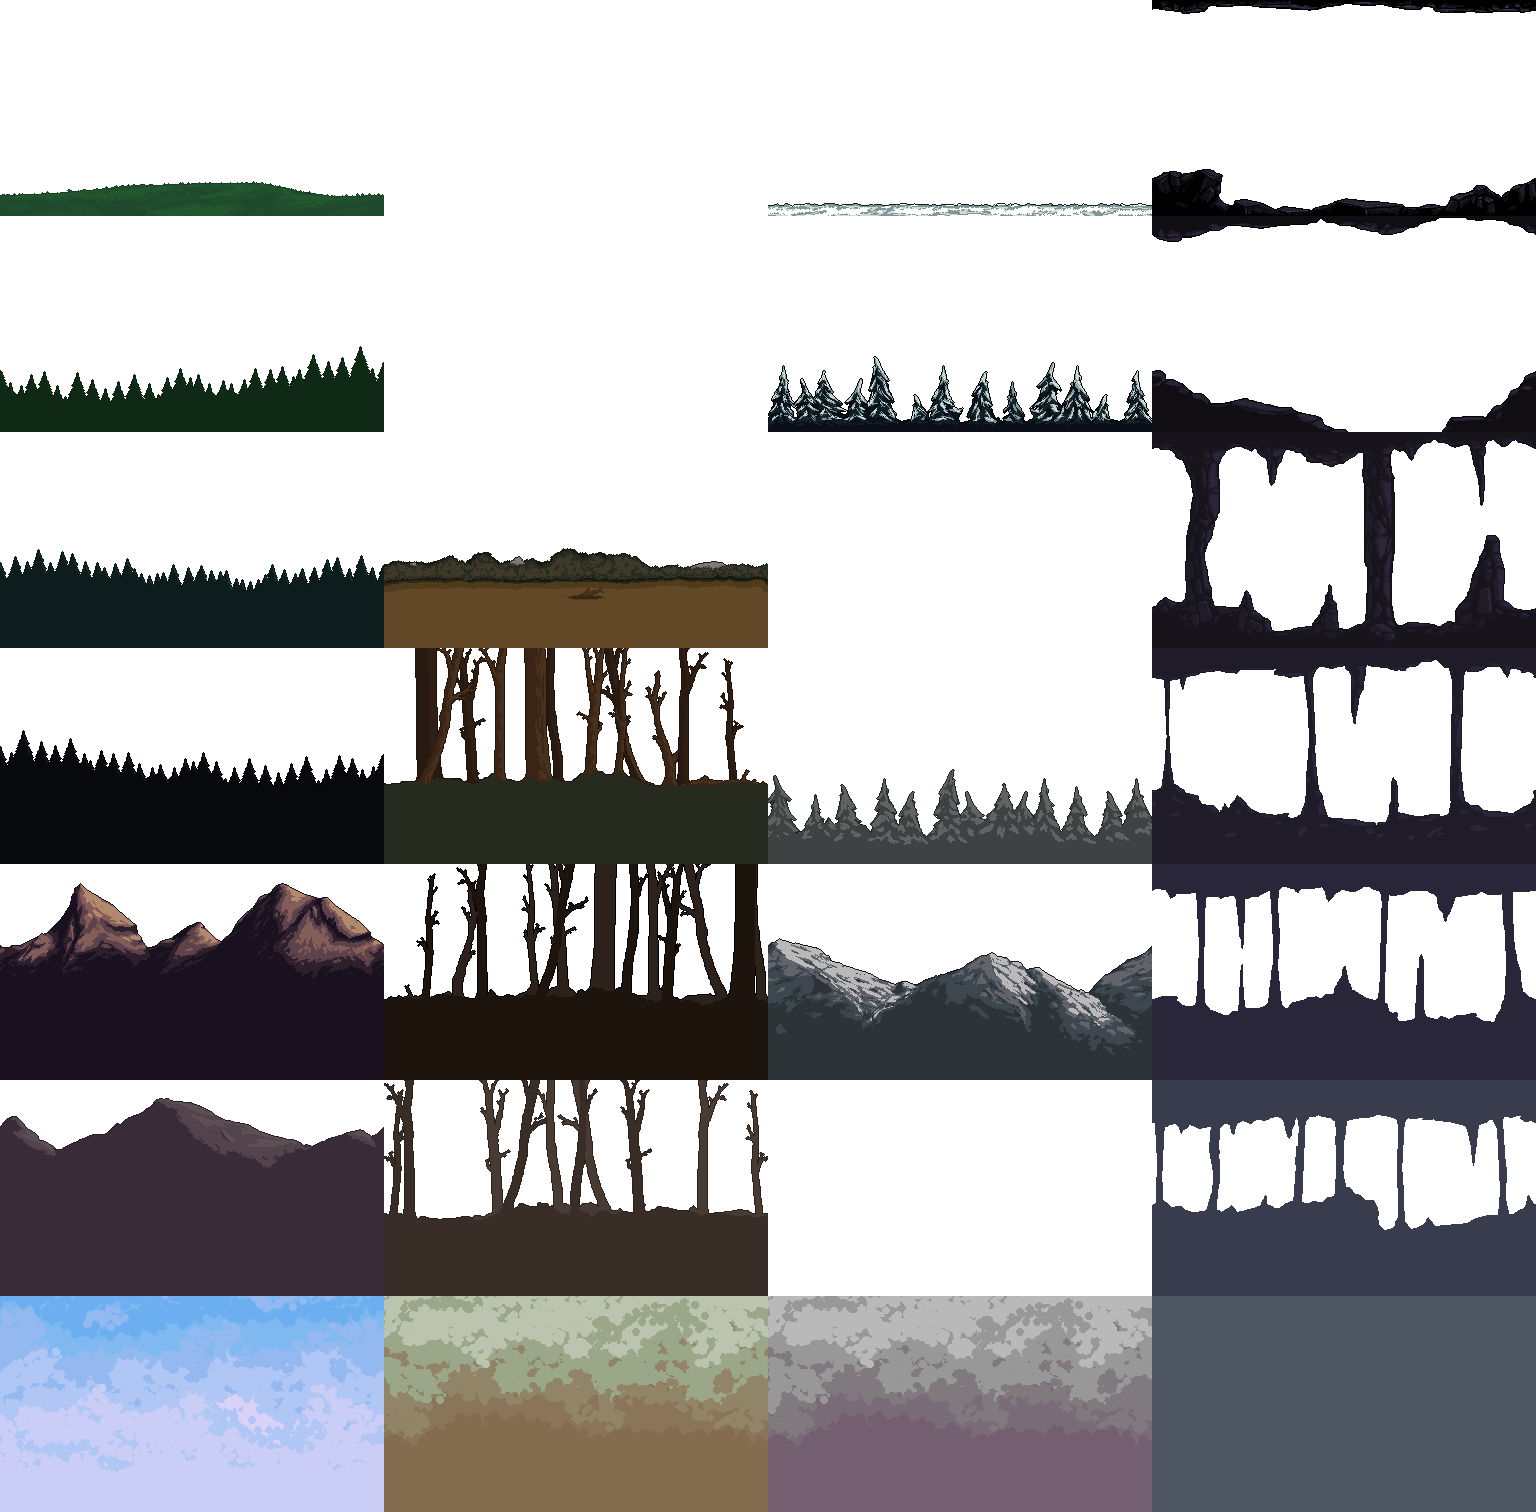
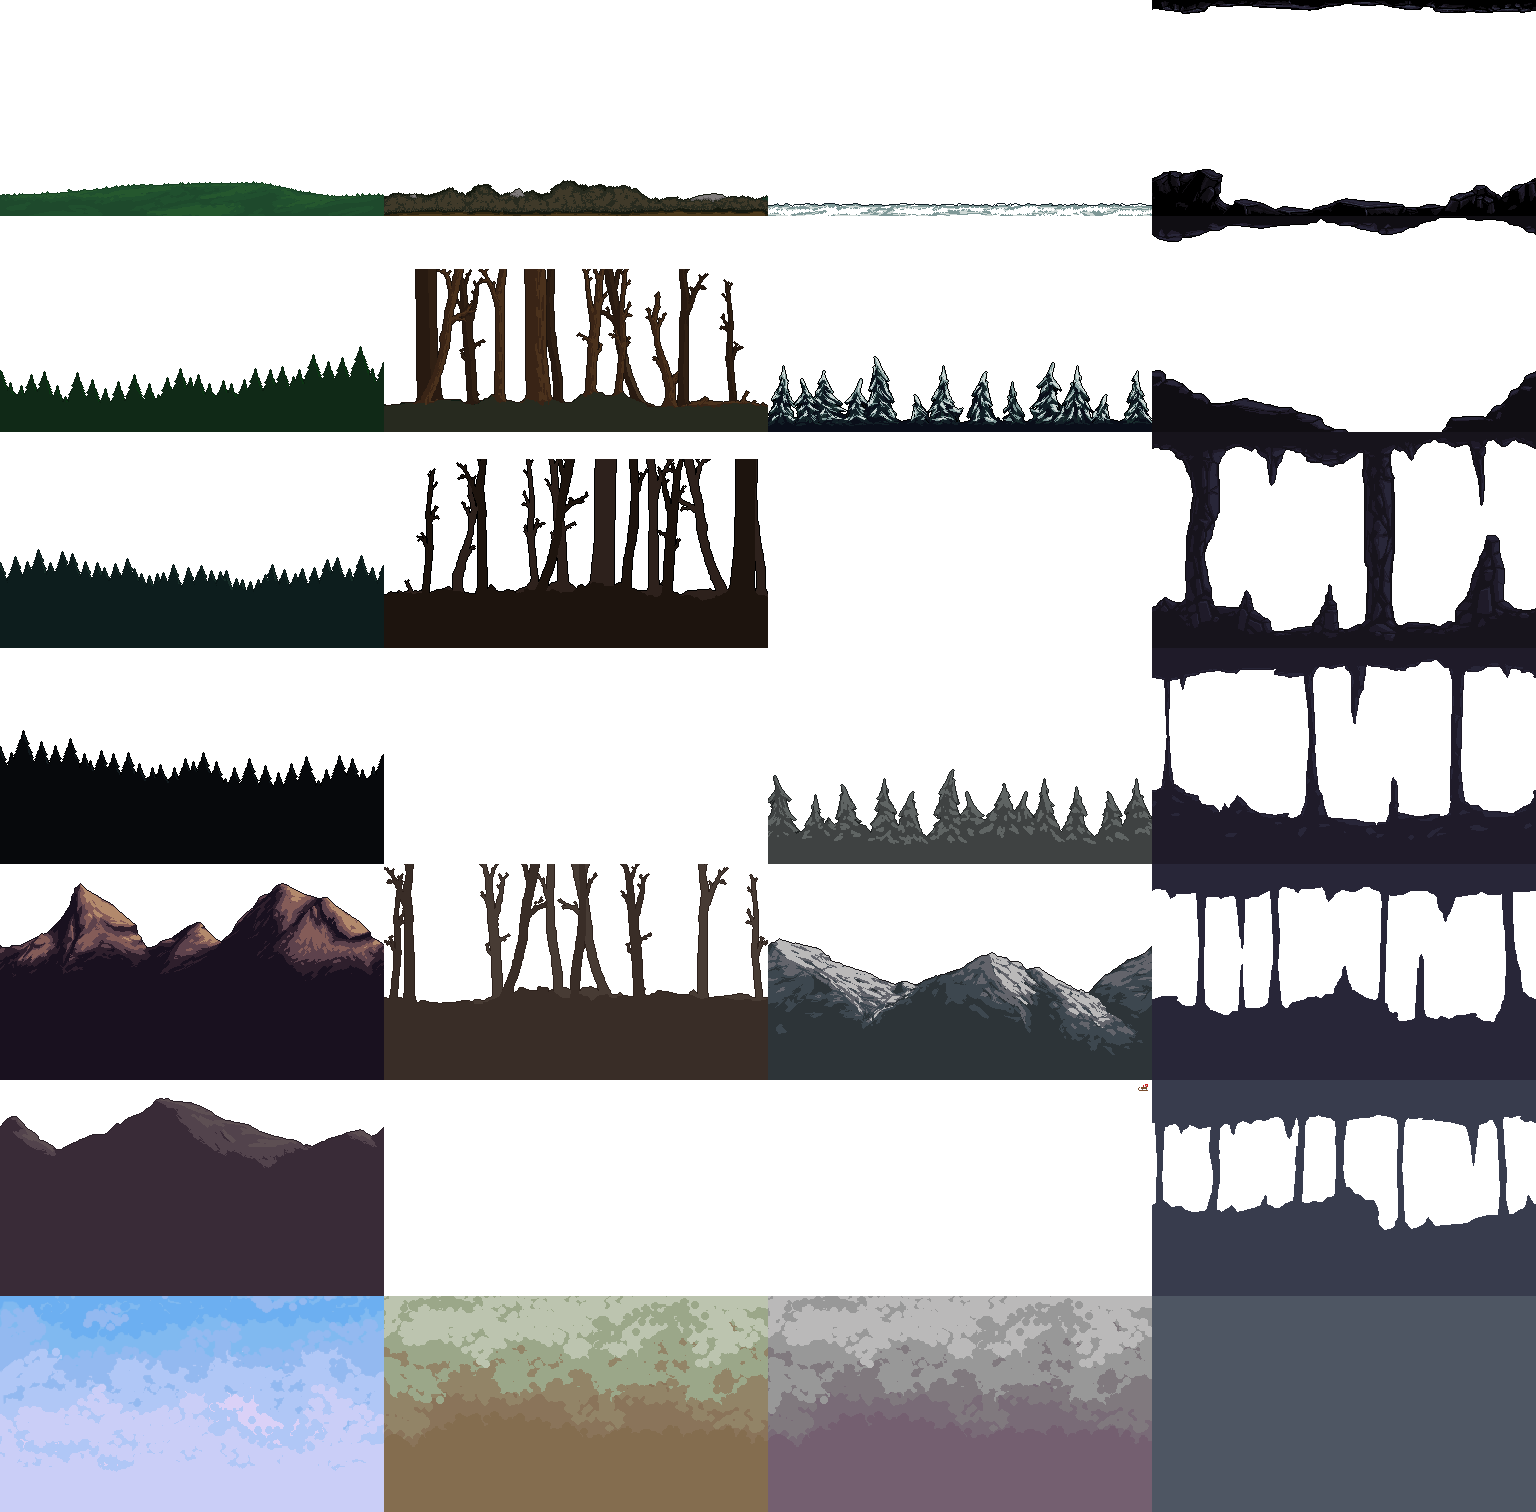
Ads in progress

Changed region(s): [[0.25, 0.1243, 0.5, 0.8704]]

diff --git a/Runner/AdController.cs b/Runner/AdController.cs
@@ -1,0 +1,79 @@
+using System;
+using Android.Gms.Ads;
+using Android.Gms.Ads.Interstitial;
+using Android.Views;
+using Android.Widget;
+using Runner;
+
+namespace AdController
+{
+    public static class AdController
+    {
+        public static InterstitialAd interstitialHandle = null;
+        public static AdView AdView = null;
+
+        public static event EventHandler AdClosed;
+
+        // AD ID's This is a test use yours from Admob
+        public static string adID1 = "ca-app-pub-3940256099942544/1033173712"; // standard full page ad
+        public static string adID3 = "ca-app-pub-3940256099942544/6300978111"; // banner ad
+
+        public static bool adRegularLoaded = false;
+        public static bool adBannerLoaded = false;
+
+        public static void InitBannerAd(FrameLayout fl)
+        {
+            LinearLayout ll = new LinearLayout((Activity1)Game1.Activity)
+            {
+                Orientation = Orientation.Vertical
+            };
+
+            ll.SetGravity(GravityFlags.CenterVertical | GravityFlags.Bottom);
+
+            MobileAds.Initialize(Game1.Activity);
+
+            AdView = new AdView((Activity1)Game1.Activity)
+            {
+                AdUnitId = adID3,
+                AdSize = AdSize.Banner
+            };
+
+            ListeningBanner listening = new ListeningBanner();
+
+            AdView.AdListener = listening;
+            AdView.LoadAd(new AdRequest.Builder().Build());
+            AdView.Visibility = ViewStates.Visible;
+
+            ll.AddView(AdView);
+            fl.AddView(ll);
+        }
+
+
+
+        private static void Listening_AdClosed(object sender, EventArgs e)
+        {
+            AdClosed?.Invoke(null, null);
+        }
+
+    }
+
+    internal class ListeningBanner : AdListener
+    {
+        public override void OnAdFailedToLoad(LoadAdError p0)
+        {
+            base.OnAdFailedToLoad(p0);
+        }
+
+        public override void OnAdLoaded()
+        {
+            AdController.adBannerLoaded = true;
+            base.OnAdLoaded();
+        }
+
+        public override void OnAdClosed()
+        {
+            AdController.AdView.LoadAd(new AdRequest.Builder().Build());
+            base.OnAdClosed();
+        }
+    }
+}

diff --git a/Runner/Background.cs b/Runner/Background.cs
@@ -17,6 +17,7 @@ namespace Runner
         private Vector2 size;
         private double[] timeToTick;
         private int id;
+        private int sky;
 
         public void Load(Texture2D texture, SpriteBatch spriteBatch)
         {
@@ -27,8 +28,25 @@ namespace Runner
             this.timeToTick = new double[7];
             for (int i = 0; i < 7; i++) { positionX[i] = 0; timeToTick[i] = 0; }
             this.size = new Vector2(384, 216);
-            id = 0;
-            
+            id = 2;
+            switch (id)
+            {
+                case 0:
+                    this.sky = 96;
+                    break;
+                case 1:
+                    this.sky = 8;
+                    break;
+                case 2:
+                    this.sky = 48;
+                    break;
+                case 3:
+                    this.sky = 0;
+                    break;
+                default:
+                    this.sky = 0;
+                    break;
+            }
         }
         public void Update(double dTime)
         {
@@ -51,8 +69,8 @@ namespace Runner
                 Rectangle rect = new(384 * id, 216 * i, (int)size.X, (int)size.Y);
                 if (i == 6)
                 {
-                    spriteBatch.Draw(texture, new Vector2(positionX[i], positionY - 96), rect, Color.White);
-                    spriteBatch.Draw(texture, new Vector2(positionX[i] + size.X, positionY - 96), rect, Color.White);
+                    spriteBatch.Draw(texture, new Vector2(positionX[i], positionY - sky), rect, Color.White);
+                    spriteBatch.Draw(texture, new Vector2(positionX[i] + size.X, positionY - sky), rect, Color.White);
                 }
                 else
                 {

diff --git a/Runner/Activity1.cs b/Runner/Activity1.cs
@@ -1,8 +1,10 @@
+using AdController;
 using Android.App;
 using Android.Content.PM;
 using Android.OS;
 using Android.Views;
 using Microsoft.Xna.Framework;
+using Android.Widget;
 
 namespace Runner
 {
@@ -19,15 +21,20 @@ namespace Runner
     {
         private Game1 _game;
         private View _view;
+        private FrameLayout _frameLayout;
 
         protected override void OnCreate(Bundle bundle)
         {
             base.OnCreate(bundle);
 
             _game = new Game1();
-            _view = _game.Services.GetService(typeof(View)) as View;
+            //_view = _game.Services.GetService(typeof(View)) as View;
+            _frameLayout = new FrameLayout(this);
+            _frameLayout.AddView((View)_game.Services.GetService(typeof(View)));
 
-            SetContentView(_view);
+            AdController.AdController.InitBannerAd(_frameLayout);
+
+            SetContentView(_frameLayout);
             _game.Run();
         }
     }

diff --git a/Runner/Tile.cs b/Runner/Tile.cs
@@ -18,6 +18,7 @@ namespace Runner
             shift = 0;
             next = new int[13];
             for (int i = 0; i < next.Length; i++) { next[i] = r.Next(0, 5); }
+            id = 2;
         }
 
         public override void Update(double dTime)
@@ -39,7 +40,7 @@ namespace Runner
             {
                 spriteBatch.Draw(texture,
                     new Vector2(i*16 - shift, 512 - 96),
-                    new Rectangle(16 * next[i], 4, 16, 32),
+                    new Rectangle(id*80 + 16 * next[i], 4, 16, 32),
                     Color.White);
             }
         }
@@ -49,7 +50,7 @@ namespace Runner
             {
                 spriteBatch.Draw(texture,
                 new Vector2(i * 16 - shift, 512 - 96 - 4),
-                new Rectangle(16 * next[i], 0, 16, 4),
+                new Rectangle(id * 80 + 16 * next[i], 0, 16, 4),
                 Color.White);
             }
         }

diff --git a/Runner/Game1.cs b/Runner/Game1.cs
@@ -7,6 +7,7 @@ using Microsoft.Xna.Framework.Input;
 using Microsoft.Xna.Framework.Input.Touch;
 using System;
 using static Android.Icu.Text.Transliterator;
+using AdController;
 
 namespace Runner
 {
